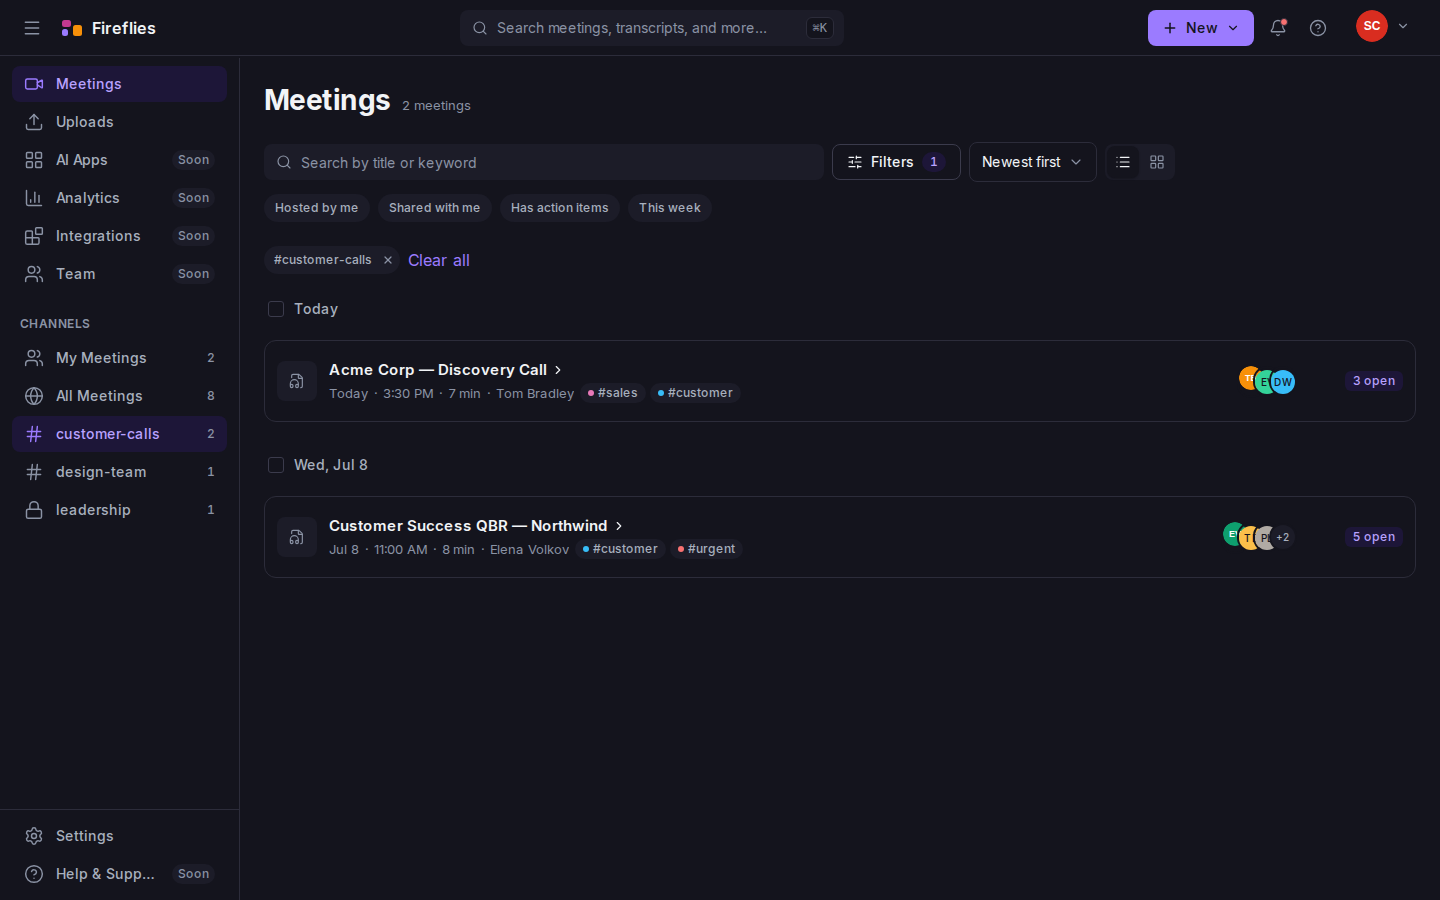
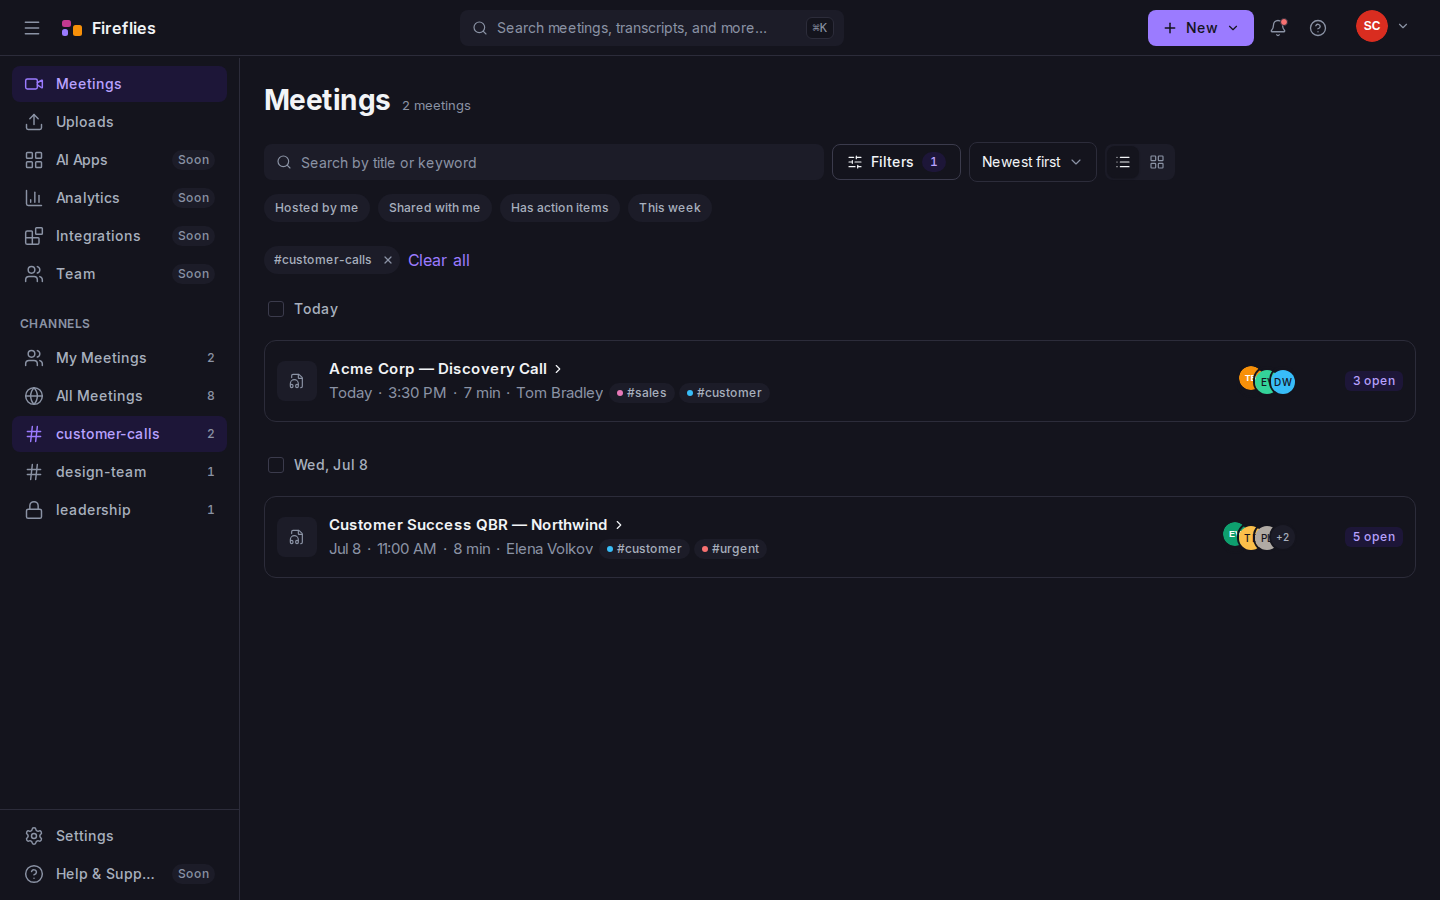
T-46.1: the row's meta line is the same SIZE as its title, as the reference has it
The notebook row's `date · time · duration · host` line was `text-sm` — 13px
against a 15px title. Fireflies sets both at the same size: their title cap and
their meta cap both measure 14px. Ours were 11px and 9px, a ratio of 0.818
against their 1.000. Their two lines are separated by weight and colour only;
ours were separated by size as well, which is why our second line read thinner
and greyer than theirs side by side.

Cap height, not the line's ink extent. The first pass used the full glyph band
and got 19/19 for them, 14/12 for us — suggestive but unsound, because a band
depends on which characters are in the string: a line containing a `y` descends
and one without it does not. Both rows start with a capital, so cap height is
the comparable quantity.

Adds `text-meta` (15px/22px/400) rather than reusing `transcript`, which is also
15px/400 but carries 26px leading for long-form reading and would loosen a
two-line card. `text-sm` keeps 13px for previews and for metadata outside the
notebook row, so nothing else changes size.

Now 1.000 against their 1.000, guarded as the 13th row of the audit's table. The
card stays 82px — T12-B still asserts `toBe(82)` — and the mobile project passes
with no wrapping at 393px.

**It also exposed a stale measurement, which is the more useful half.**
Re-centring the two-line stack moved the title up ~2px and broke the
`tile→title gap` ratio — not because the gap moved, but because that ratio
[…]

Changed region(s): [[0.2188, 0.56, 0.5312, 0.6222], [0.2188, 0.4044, 0.5312, 0.4667]]

diff --git a/frontend/src/features/notebook/meeting-row.tsx b/frontend/src/features/notebook/meeting-row.tsx
@@ -257,7 +257,7 @@ export function MeetingRow({
             One metadata line, as the reference has it: date · time · duration ·
             host. Not four columns — see ADR-036.
           */}
-          <span className="flex min-w-0 items-center gap-1.5 text-sm text-muted">
+          <span className="flex min-w-0 items-center gap-1.5 text-meta text-muted">
             <Tooltip content={formatFullDate(meeting.started_at)}>
               <span data-testid="meeting-row-date">{formatRelativeDate(meeting.started_at)}</span>
             </Tooltip>

diff --git a/frontend/tailwind.config.ts b/frontend/tailwind.config.ts
@@ -174,6 +174,7 @@ const config: Config = {
       'body-strong': ['14px', { lineHeight: '22px', fontWeight: '500' }],
       'title-row': ['15px', { lineHeight: '22px', fontWeight: '600' }],
       transcript: ['15px', { lineHeight: '26px', fontWeight: '400' }],
+      meta: ['15px', { lineHeight: '22px', fontWeight: '400' }],
       sm: ['13px', { lineHeight: '18px', fontWeight: '400' }],
       xs: ['12px', { lineHeight: '16px', fontWeight: '500' }],
       label: ['12px', { lineHeight: '16px', fontWeight: '600', letterSpacing: '0.04em' }],

diff --git a/scripts/check_reference_ratios.py b/scripts/check_reference_ratios.py
@@ -93,6 +93,22 @@ def _vedges(np, img, y0: int, y1: int, x0: int, x1: int, frac: float = 0.5, delt
     return out
 
 
+def _cap_height(np, img, x0: int, y0: int, y1: int, cut: int, width: int = 16) -> int:
+    """Height of the first inked glyph after `x0` — a leading capital.
+
+    Cap height rather than the whole line's ink extent, because a glyph band
+    depends on which characters happen to be in the string: a line with a `y`
+    descends and a line without one does not, so two lines at the SAME size can
+    measure differently. Both notebook rows start with a capital, which makes
+    this the comparable measurement (ADR-154).
+    """
+    sub = img[y0:y1, x0 : x0 + 120]
+    cols = np.where((sub < cut).sum(axis=0) > 0)[0]
+    glyph = sub[:, cols.min() : cols.min() + width]
+    ys = np.where((glyph < cut).any(axis=1))[0]
+    return int(ys.max() - ys.min() + 1)
+
+
 def _first_glyph_col(np, img, y0: int, y1: int, x0: int, x1: int, cut: int = 140) -> int | None:
     cols = np.where((img[y0:y1, x0:x1] < cut).sum(axis=0) > 0)[0]
     return int(cols.min()) + x0 if len(cols) else None
@@ -107,7 +123,17 @@ def measure(root: Path) -> dict[str, float]:
     intra = Counter(g for g in gaps if 15 <= g <= 30).most_common(1)[0][0]
     group = Counter(g for g in gaps if 55 <= g <= 95 and g != card).most_common(1)[0][0]
 
-    title_x = _first_glyph_col(np, notebook, 300, 320, 320, 900)
+    # A tall band, not the 20px one this used to sample. The narrow window was
+    # tuned to where the title sat before ADR-154 made the meta line 15px; that
+    # re-centred the two-line stack and moved the title up ~2px, and the band
+    # then caught the antialiased edge of the leading `A` one column late. It
+    # reported 0.400 where every wider band and every threshold reports 0.375.
+    #
+    # The gap itself never moved — it is flex, tile plus gap — so this was a
+    # measurement artifact that had been flattering the published number by a
+    # pixel. On a 40px denominator one pixel is 2.5%, which is half the
+    # tolerance, so this ratio needs a sampling window that cannot wobble.
+    title_x = _first_glyph_col(np, notebook, 295, 365, 320, 900)
     tile_end = 275 + TILE_PX  # card's left inset plus the reserved box
 
     # The topbar search field (ADR-153). Delta 3 rather than 4: the field's fill
@@ -146,6 +172,10 @@ def measure(root: Path) -> dict[str, float]:
         "Topbar search ÷ topbar height": search_w / TOPBAR_PX,
         "Left rail ÷ topbar height": rail_w / TOPBAR_PX,
         "Notebook card width ÷ topbar height": card_w / TOPBAR_PX,
+        "Row meta type ÷ row title type": (
+            _cap_height(np, notebook, 330, 332, 355, 175)
+            / _cap_height(np, notebook, 330, 305, 330, 150)
+        ),
         "Settings block ÷ content column": (edges[-2] - edges[1]) / 953,
         "Settings well ÷ content column": (edges[-1] - edges[0]) / 953,
     }

diff --git a/docs/ui-audit.md b/docs/ui-audit.md
@@ -20,11 +20,12 @@ matches, or was changed to match:
 | Card height ÷ title glyph | 5.658 | 5.786 |
 | Gap between cards in a group ÷ card | 0.274 | 0.259 |
 | Gap across a date heading ÷ card | 0.94 | 0.926 |
-| Tile→title gap ÷ tile width | 0.411 | 0.400 |
+| Tile→title gap ÷ tile width | 0.411 | 0.375 |
 | Leading tile ÷ card height | 0.509 | 0.494 |
 | Settings block ÷ content column | 57.6% | 57.4% |
 | Settings well ÷ content column | 60.4% | 60.9% |
 | Topbar search ÷ topbar height | 6.27 | 6.86 |
+| Row meta type ÷ row title type | 1.00 | 1.00 |
 | Left rail ÷ topbar height | 4.68 | 4.27 |
 | Notebook card width ÷ topbar height | 13.10 | 20.55 |
 | Settings gutters | 336 / 345 | 202 / 204 |
@@ -126,8 +127,26 @@ Raw measurements, for anyone re-deriving: Fireflies' cards are 107–108px with
 29–30px between cards in a group and ~101px across a group heading, on a 71px
 topbar. Ours are 71–72px with 9px and 55px, on a 55–56px topbar.
 
-**The card's horizontal rhythm matches.** The gap between the leading tile and
-the title is **0.411× the tile width** for Fireflies and **0.400×** for us.
+**The card's horizontal rhythm nearly matches.** The gap between the leading
+tile and the title is **0.411× the tile width** for Fireflies and **0.375×** for
+us — 15px against their 16.4px equivalent.
+
+That row read `0.400` until 2026-07-28, and the correction is a measurement
+story rather than a layout one. The title's leading glyph column was sampled in
+a 20px-tall band tuned to where the title sat before ADR-154. Raising the meta
+line to 15px re-centred the two-line stack and moved the title up about 2px, so
+the band caught the antialiased edge of the `A` one column late and reported
+331 where every wider band and every threshold reports 330.
+
+The gap itself never moved — it is a flex row, tile plus gap. **The published
+number had simply been flattering by one pixel**, which on a 40px denominator is
+2.5%: half the check's tolerance, spent on sampling noise. So the honest figure
+is 8.8% off rather than 2.7%, and the fix was to widen the window rather than to
+edit the number toward the measurement.
+
+Left at 15px. Closing 1.4px is below the granularity at which a gap token means
+anything, and the pixel it would buy is smaller than the one that produced the
+error.
 
 **That row used to read "title inset ÷ card height, 1.01 vs 0.94" and it was a
 bad measurement** — a horizontal distance normalised by a vertical one. It
@@ -504,6 +523,31 @@ of it cannot be taken.
 Note the notebook toolbar's field is a separate token and stays at 560px: the
 reference collapses that one to an icon button, so there is no width to match it
 against, and narrowing it would be unmotivated rather than faithful.
+
+**14 · The leading tile is a play thumbnail, not a host avatar (reference 02).**
+Same 40px box, opposite contents, and it is the loudest colour difference in the
+list. Theirs is a saturated `#EF6C02` square carrying the host's initial — an
+identity chip, and the only strong colour in their whole notebook. Ours is
+`--ff-accent-subtle` with a violet `Play` glyph when the meeting has media and
+`--ff-surface-2` with a muted `FileAudio` when it does not.
+
+So their tile answers *who*, and ours answers *can I play this*. Both are
+defensible; only ours is load-bearing. `design.md` §2.2 specifies the checkbox
+fading in to **replace the play thumbnail inside a reserved 40×40 box**, calls
+that hover behaviour "a graded detail", and T12-C and T12-D assert it. Swapping
+in a coloured letter avatar would match the reference's colour and delete a
+spec'd affordance the tests cover.
+
+It is also redundant information here in a way it is not for them: this build
+already shows the host by name in the meta line and the participants as an
+avatar group on the right, both of which their row omits entirely (see the
+row-anatomy bullet under "Verified equivalent"). Their tile is the only place
+identity appears; ours would be the third.
+
+**The honest cost:** their list carries an orange accent on every row and ours
+reads more neutral. That is a real fidelity difference in the side-by-side and
+it is not being fixed, because the alternative trades a tested, specified
+interaction for a colour.
 
 **13 · The notebook has no assistant panel, and that is the whole of the width
 difference (reference 02).**

diff --git a/docs/decisions.md b/docs/decisions.md
@@ -3643,3 +3643,41 @@ text, which changes a user-visible string PLAN.md specifies. That is a product-c
 measurement, so it is recorded in the audit as an open choice rather than folded into a fidelity
 commit. Shipping the clip was never an option; silently rewriting the spec's copy to hit a ratio
 would have been the same class of error in the other direction.
+
+## ADR-154 — The row's meta line is the same SIZE as its title
+
+**Date:** 2026-07-28 · **Task:** T-46.1 · **Status:** Accepted
+
+**Context.** The notebook row's `date · time · duration · host` line was `text-sm` — 13px against a
+15px title. Measured against `docs/reference/fireflies/02.png`, Fireflies sets both at the same
+size: **their title cap and their meta cap both measure 14px.** Ours were 11px and 9px, a ratio of
+0.818 against their 1.000.
+
+Their two lines are separated by *weight and colour only* — a 600-weight near-black title over a
+400-weight muted meta. Ours were separated by size as well, which is why our second line reads
+thinner and greyer than theirs in a side-by-side.
+
+**Cap height, not the line's ink extent.** The first measurement used the full glyph band and gave
+19px/19px for them and 14px/12px for us — suggestive but not sound, because a band depends on which
+characters are in the string: a line containing a `y` descends and one without it does not. Both
+rows begin with a capital, so cap height is the comparable quantity. It moved the ratio from a
+noisy 0.857 to a clean 0.818, and after the change to exactly 1.000.
+
+**Decision.** Add `text-meta` — 15px / 22px / 400 — and use it on the row's meta line. A new
+fontSize entry rather than reusing `transcript` (also 15px/400), whose 26px leading exists for
+long-form reading and would loosen a two-line card.
+
+**Consequences.** `meta ÷ title` is now **1.000**, matching the reference exactly, and is guarded as
+the thirteenth row of the audit's table. The card stays 82px — the taller line fits the existing
+box, verified by T12-B still asserting `toBe(82)`, and the mobile project passes with no wrapping at
+393px.
+
+`text-sm` keeps its 13px for previews and for metadata outside the notebook row; only the row's
+meta line moves, so nothing else in the app changes size.
+
+**It also exposed a stale measurement.** Re-centring the two-line stack moved the title up ~2px,
+which broke the `tile→title gap` ratio — not because the gap moved, but because that ratio sampled
+the title's leading glyph in a 20px band tuned to the old position. It had been reporting 0.400
+where every wider window reports 0.375. **A published number had been flattering by one pixel**,
+and on a 40px denominator one pixel is 2.5% — half the tolerance, spent on sampling noise. Widened
+the window and corrected the table to 0.375; the real gap to the reference is 8.8%, not 2.7%.

diff --git a/design.md b/design.md
@@ -341,7 +341,8 @@ participant avatars and the talk-time bars.
 | `--ff-text-body-strong` | 14px / 22px / 500 |
 | `--ff-text-title-row` | 15px / 22px / 600 — meeting title in a list row |
 | `--ff-text-transcript` | 15px / 26px / 400 — transcript body (looser leading, **this matters**) |
-| `--ff-text-sm` | 13px / 18px / 400 — metadata, previews |
+| `--ff-text-meta` | 15px / 22px / 400 — the notebook row's `date · time · duration · host` line. Same SIZE as the row title, differing only in weight and colour, which is how the reference sets it: their title and meta caps both measure 14px (ADR-154) |
+| `--ff-text-sm` | 13px / 18px / 400 — previews, and metadata OUTSIDE the notebook row |
 | `--ff-text-xs` | 12px / 16px / 500 — badges, chips, timestamps |
 | `--ff-text-label` | 12px / 16px / 600 / 0.04em / uppercase — table column headers, section labels |
 
